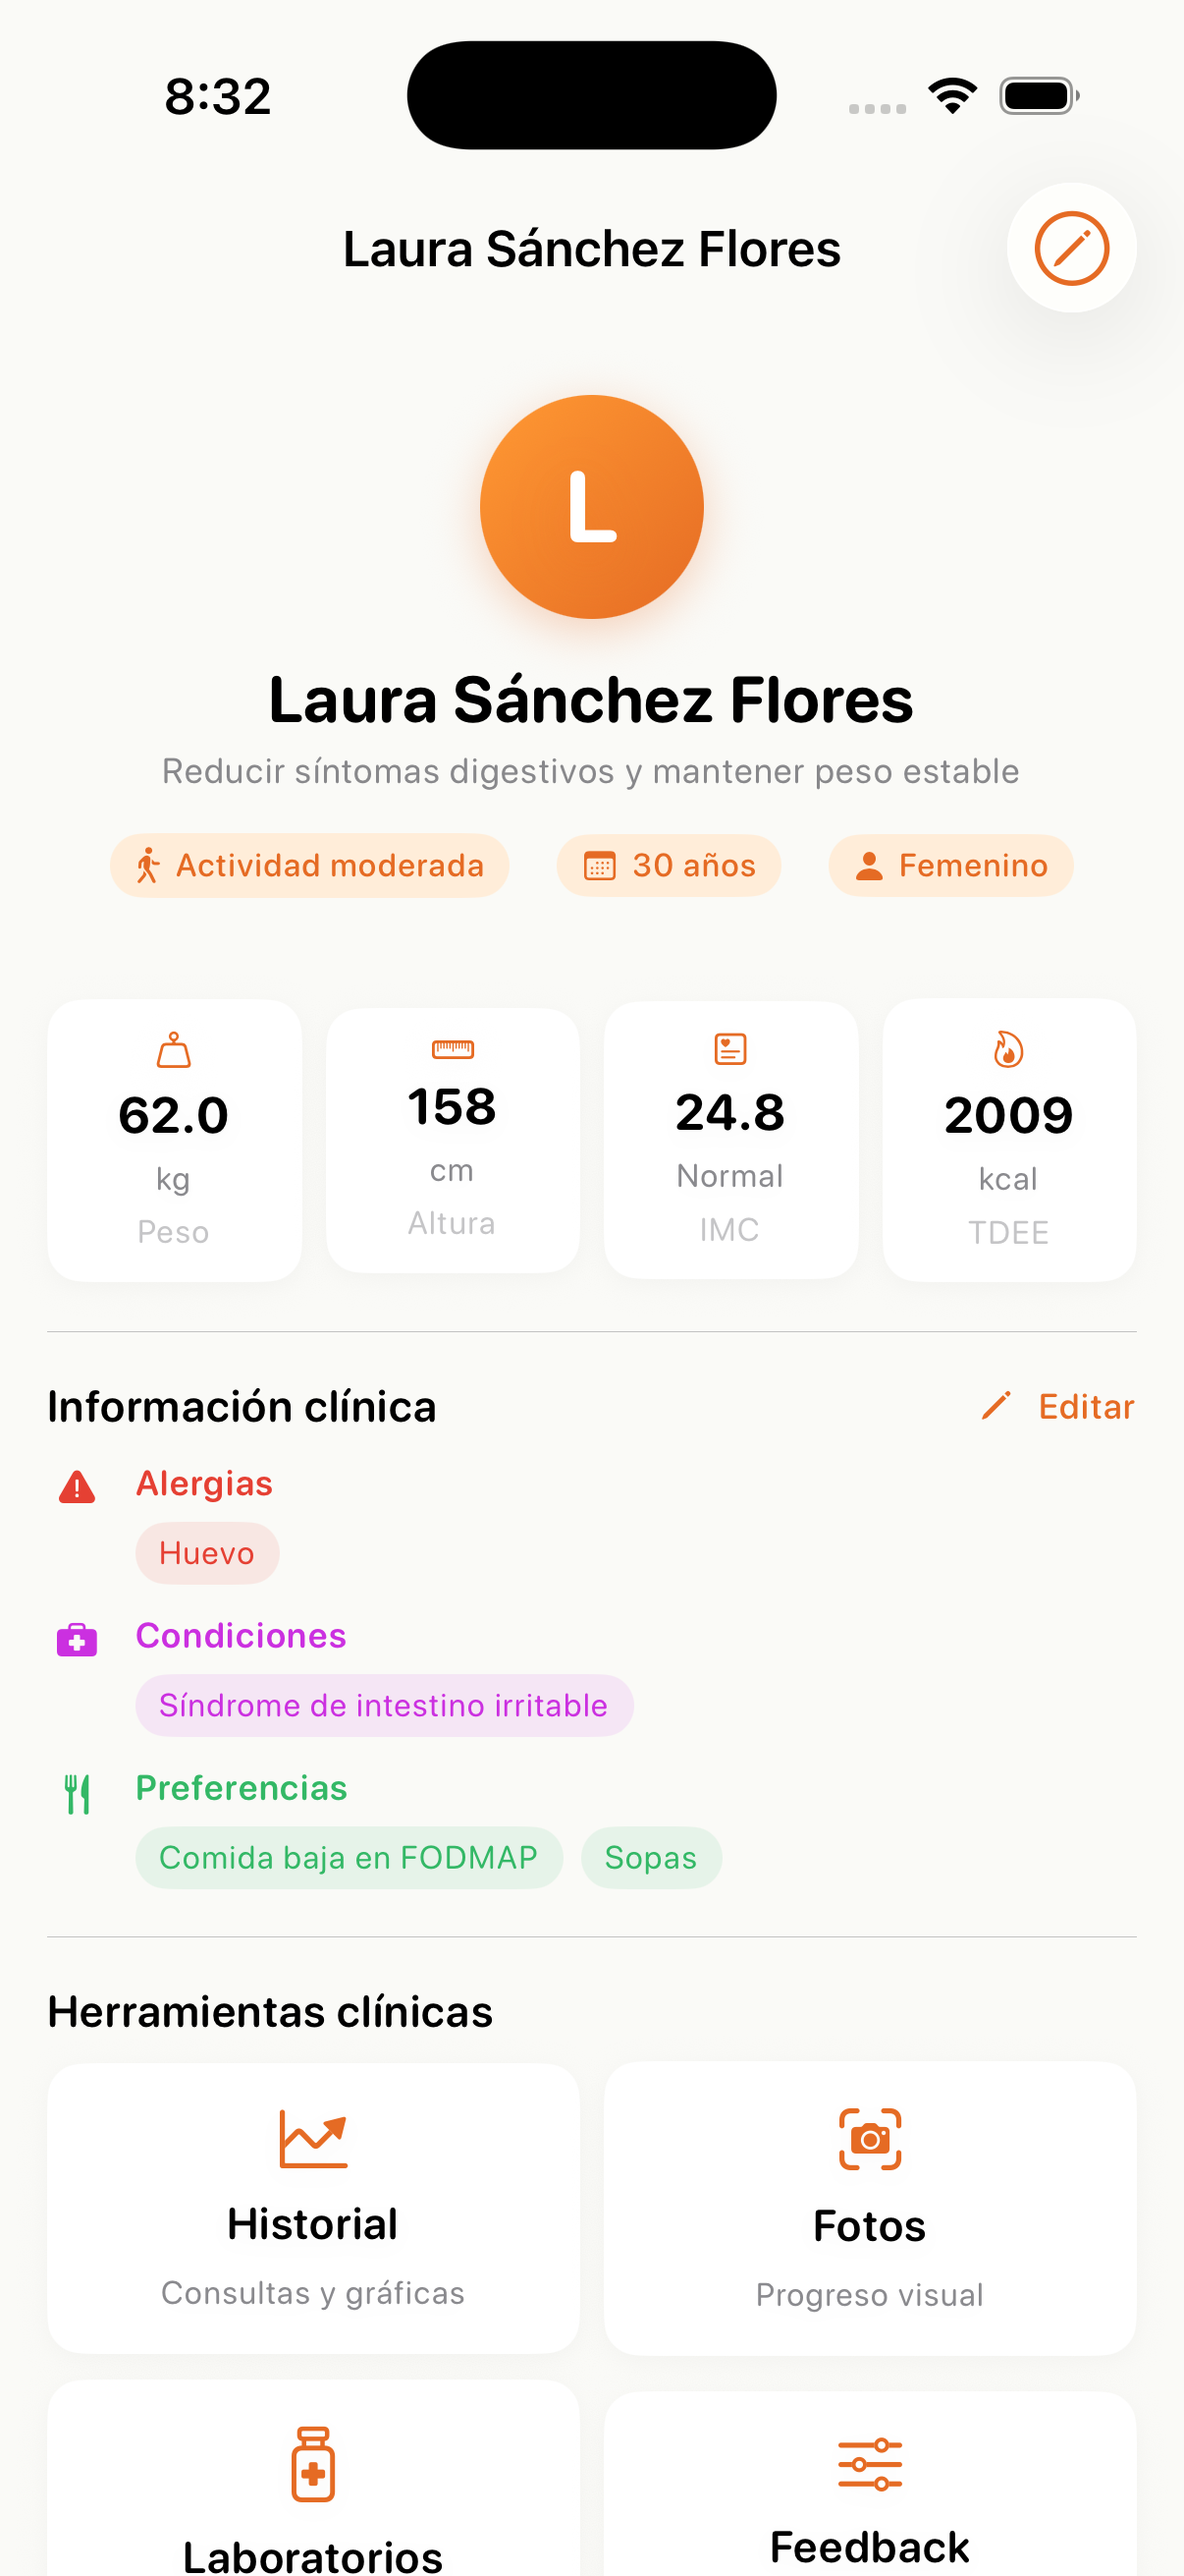
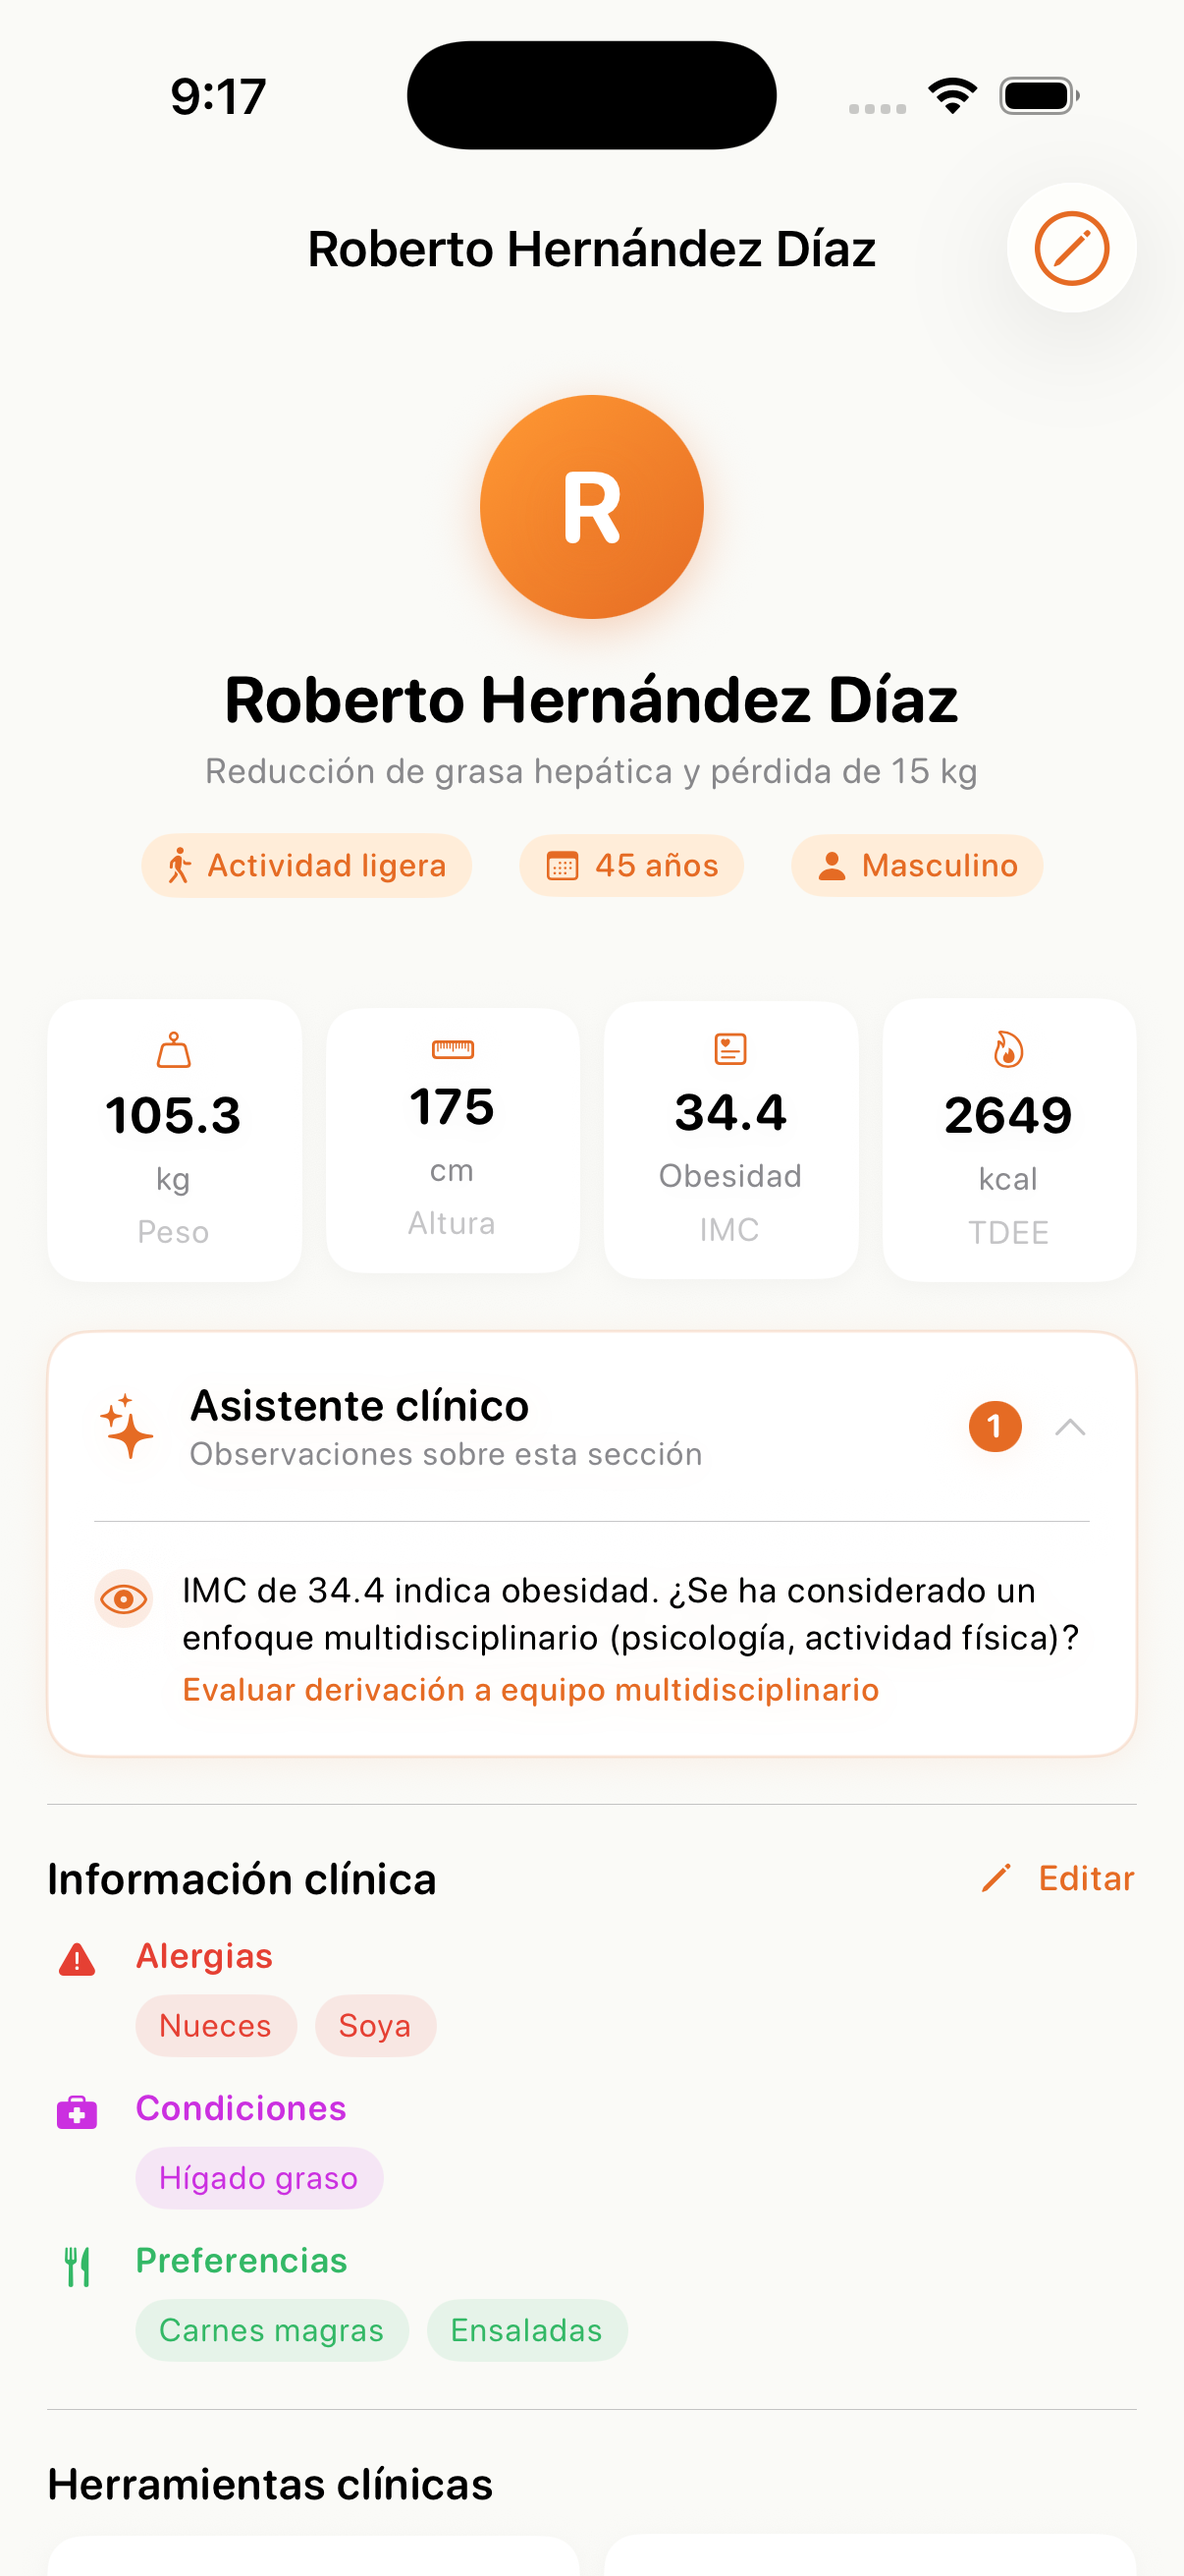
docs: update screenshots and documentation with contextual assistant and all final features

diff --git a/FEATURES.md b/FEATURES.md
@@ -430,37 +430,98 @@ Al aprobar un borrador de plan alimenticio, se genera automáticamente un `Consu
 
 ---
 
+### 23. Asistente Clínico Contextual
+**Estado:** ✅ Implementado
+
+Asistente integrado en las secciones clave de la app (perfil del paciente, historial, laboratorios y retroalimentación) que analiza los datos clínicos del paciente actual y genera observaciones relevantes. Utiliza un `InsightGenerator` que formula preguntas al nutriólogo en lugar de dar instrucciones directas, respetando la filosofía HCAI.
+
+**Funcionalidades:**
+- Análisis contextual según la sección activa (perfil, historial, laboratorios, feedback)
+- Generación de observaciones clínicas basadas en los datos del paciente
+- Preguntas al profesional para guiar la toma de decisiones
+- Integración no intrusiva con interfaz expandible/colapsable
+
+**Archivos:** `Views/Components/ContextualAssistantView.swift`, `Views/Patient/PatientDetailView.swift`, `Views/Patient/PatientHistoryView.swift`, `Views/Patient/LabResultsView.swift`, `Views/Patient/PatientFeedbackView.swift`
+
+---
+
+### 24. Importación de Documentos PDF/JSON para Laboratorios
+**Estado:** ✅ Implementado
+
+Importación de resultados de laboratorio desde archivos PDF y JSON. El `LabDocumentImporter` utiliza PDFKit para extraer texto de documentos PDF y parseo de JSON estructurado, permitiendo cargar estudios de laboratorio sin captura manual.
+
+**Funcionalidades:**
+- Extracción de texto desde documentos PDF con PDFKit
+- Parseo de archivos JSON con estructura de laboratorio
+- Selector de documentos integrado en la vista de laboratorios
+- Mapeo automático de resultados a las plantillas de estudios existentes
+
+**Archivos:** `Services/LabDocumentImporter.swift`, `Views/Patient/LabImportView.swift`
+
+---
+
+### 25. Plantillas Rápidas para Pacientes y Comidas
+**Estado:** ✅ Implementado
+
+Plantillas predefinidas que aceleran la captura de datos frecuentes. En la vista de pacientes, plantillas con perfiles clínicos comunes. En la edición de comidas, plantillas con combinaciones de alimentos típicas del contexto mexicano.
+
+**Funcionalidades:**
+- Plantillas de pacientes con perfiles clínicos predefinidos
+- Plantillas de comidas con ingredientes y macros pre-calculados
+- Aplicación con un toque desde los formularios de captura
+
+**Archivos:** `Views/Patient/AddEditPatientView.swift`, `Views/Components/EditMealSheet.swift`
+
+---
+
+### 26. Centro de Ayuda In-App
+**Estado:** ✅ Implementado
+
+Centro de ayuda integrado con guías paso a paso y preguntas frecuentes. Accesible desde la configuración, permite al nutriólogo resolver dudas sin salir de la aplicación.
+
+**Funcionalidades:**
+- 9 guías paso a paso para funcionalidades principales
+- 6 preguntas frecuentes con respuestas detalladas
+- Búsqueda integrada para localizar temas rápidamente
+- Navegación organizada por categorías
+
+**Archivos:** `Views/Help/HelpView.swift`
+
+---
+
+### 27. Guía de Contribución para Equipo
+**Estado:** ✅ Implementado
+
+Documentación de contribución con reglas de ramas, estilo de código y flujo de trabajo para desarrollo colaborativo.
+
+**Archivos:** `CONTRIBUTING.md`
+
+---
+
 ## Funcionalidades Planificadas
 
-### 23. Agenda y Citas
+### 28. Agenda y Citas
 **Estado:** 📋 Planificado (Fase 3)
 
 Calendario integrado para gestionar citas con pacientes, recordatorios y seguimiento de asistencia.
 
 ---
 
-### 24. Asistente Contextual por Sección
-**Estado:** 📋 Planificado (Fase 3)
-
-Motor de asistencia integrado en cada sección de la app que responde preguntas contextuales del nutriólogo sobre el paciente actual, los datos clínicos o el plan en edición.
-
----
-
-### 25. Personalización del Motor por Paciente
+### 29. Personalización del Motor por Paciente
 **Estado:** 📋 Planificado (Fase 3)
 
 Configuración de prompts y parámetros del motor a nivel de paciente individual, permitiendo ajustes más finos que el prompt global.
 
 ---
 
-### 26. Sincronización con Backend Remoto
+### 30. Sincronización con Backend Remoto
 **Estado:** 📋 Planificado (Fase 4)
 
 Backend en la nube para sincronizar datos entre dispositivos, respaldos automáticos y soporte multi-nutriólogo en una misma clínica.
 
 ---
 
-### 27. Cumplimiento NOM-051 y COFEPRIS
+### 31. Cumplimiento NOM-051 y COFEPRIS
 **Estado:** 📋 Planificado (Fase 4)
 
 Validación de planes alimenticios contra la normativa mexicana de etiquetado (NOM-051) y lineamientos de COFEPRIS para recomendaciones nutricionales profesionales.

diff --git a/README.md b/README.md
@@ -76,6 +76,10 @@ La interfaz fue diseñada para el flujo de trabajo real de un nutriólogo: regis
 - **Accesibilidad (labels en componentes)** — Labels descriptivos en elementos interactivos para lectores de pantalla.
 - **Comidas ordenadas por tipo** — Meals ordenadas por sortOrder (Desayuno, Snack, Comida, Cena) en editor y PDF.
 - **Registro de consulta al aprobar plan** — Al aprobar un borrador se genera automáticamente un ConsultationRecord con los datos del plan.
+- **Asistente clínico contextual en cada sección** — Analiza datos del paciente y genera observaciones clínicas relevantes en perfil, historial, laboratorios y retroalimentación.
+- **Importación de estudios desde PDF y JSON** — Carga resultados de laboratorio desde documentos PDF (con PDFKit) y archivos JSON estructurados.
+- **Plantillas rápidas para pacientes y comidas** — Perfiles clínicos y combinaciones de alimentos predefinidos para agilizar la captura de datos.
+- **Centro de ayuda in-app con guías paso a paso** — 9 guías, 6 preguntas frecuentes y búsqueda integrada para resolver dudas sin salir de la aplicación.
 
 ---
 
@@ -162,6 +166,7 @@ NutriOptimize/
 │   ├── PDFExportService.swift       # Generador de PDF profesional
 │   ├── PatientStore.swift           # CRUD con SwiftData
 │   ├── DemoDataSeeder.swift         # Datos demo para 5 pacientes
+│   ├── LabDocumentImporter.swift    # Importador de PDF/JSON para laboratorios
 │   ├── Protocols/
 │   │   ├── OptimizationServiceProtocol.swift
 │   │   └── PatientServiceProtocol.swift
